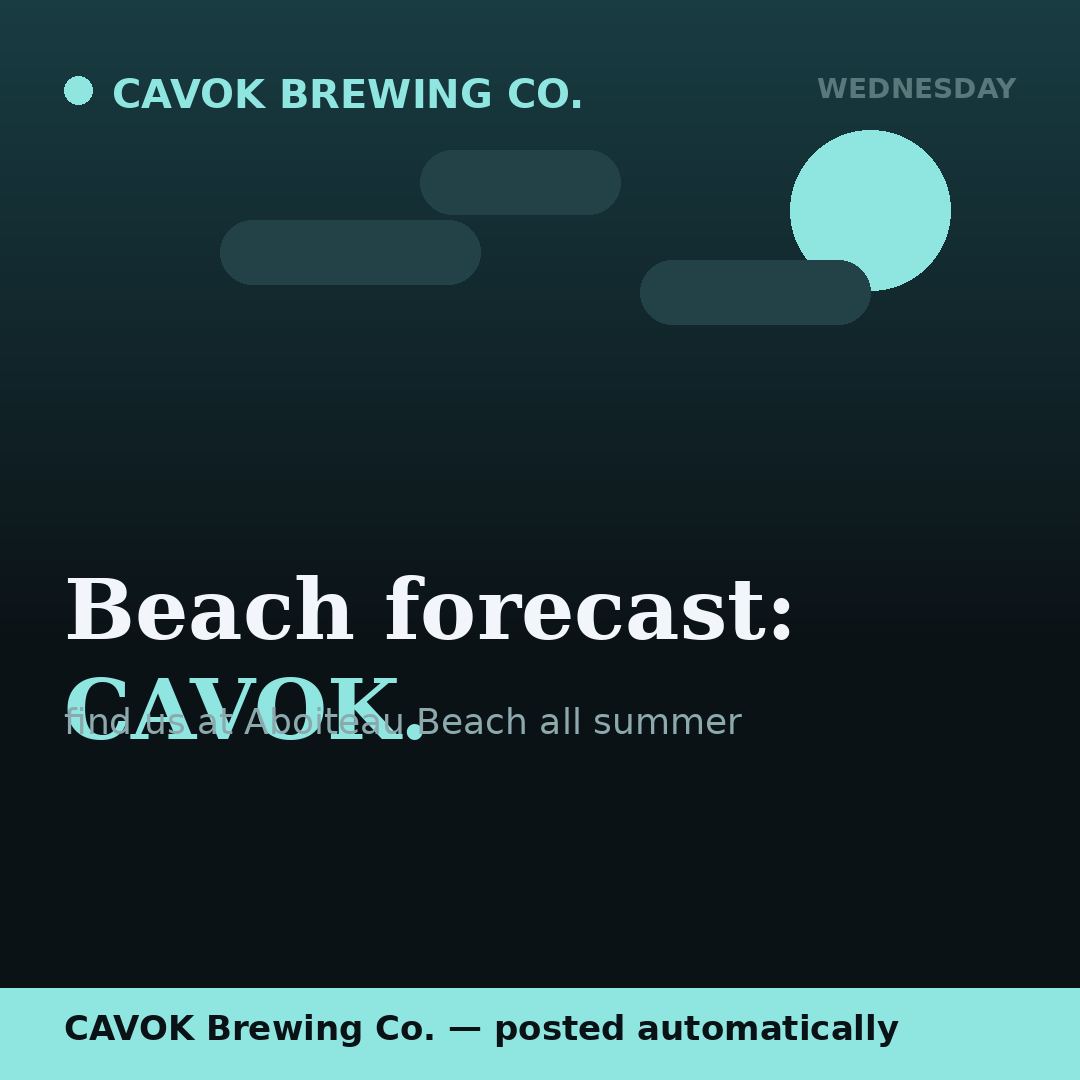
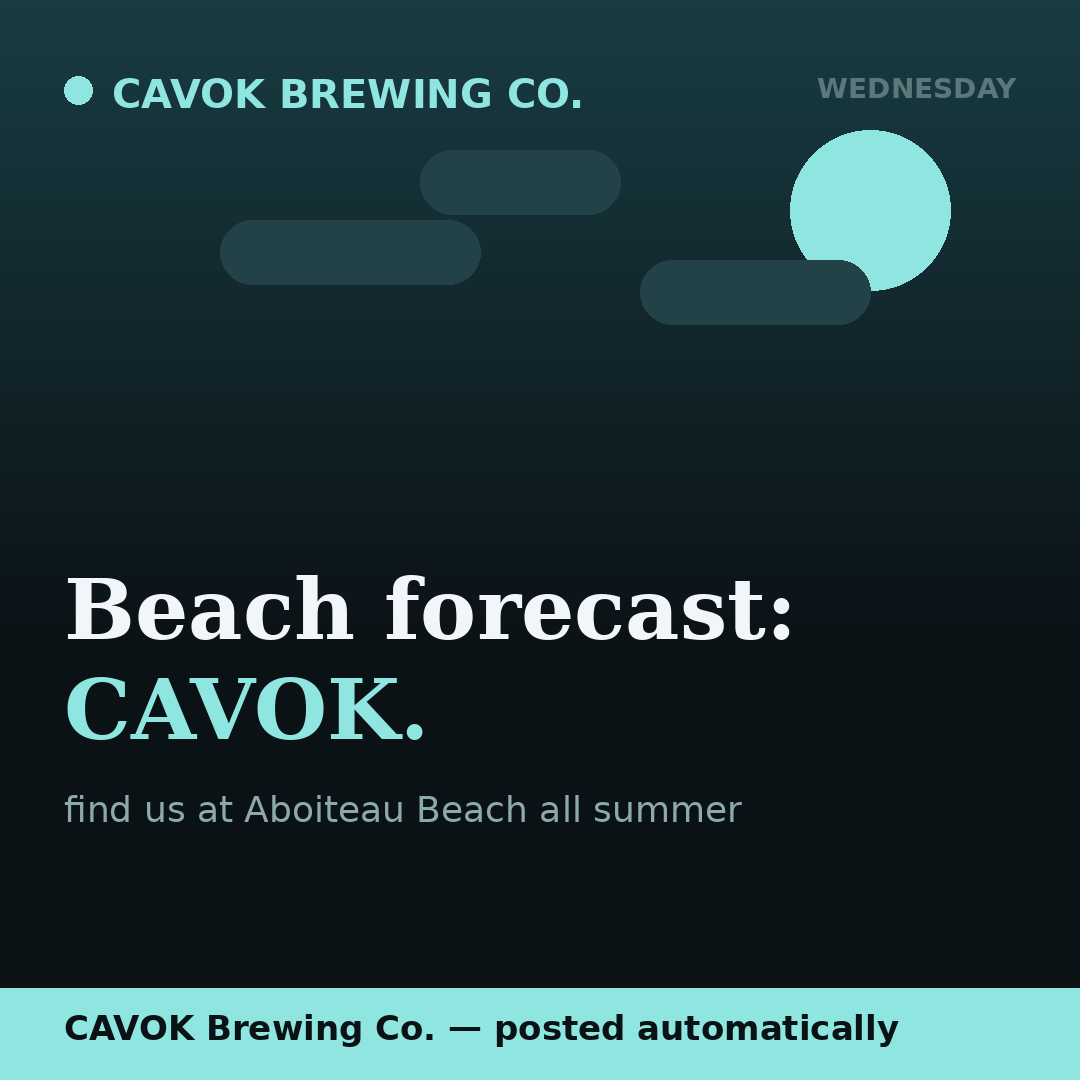
CAVOK day-3: anchor sub-line below headline, no overlap
Claude-Session: https://claude.ai/code/session_016WBRFe1MJn1UQSZgzashZd

Changed region(s): [[0.1833, 0.6417, 0.6722, 0.7028], [0.0611, 0.7333, 0.6722, 0.7639], [0.0611, 0.6417, 0.1222, 0.7028]]

diff --git a/marketing/east-coast-social/engine/cavok_week.py b/marketing/east-coast-social/engine/cavok_week.py
@@ -112,8 +112,8 @@ def day3():
     for cx, cy, w in [(220, 220, 260), (420, 150, 200), (640, 260, 230)]:  # clouds
         d.rounded_rectangle((cx, cy, cx + w, cy + 64), radius=32, fill=(34, 66, 72))
     header(d, y=70)
-    message(d, "Beach forecast: CAVOK.", 560, size=84)
-    d.text((64, 700), "find us at Aboiteau Beach all summer", font=_font(36), fill=(140, 170, 174))
+    y_end = message(d, "Beach forecast: CAVOK.", 560, size=84)
+    d.text((64, y_end + 28), "find us at Aboiteau Beach all summer", font=_font(36), fill=(140, 170, 174))
     footer(d, "WEDNESDAY")
     img.save(OUT / "day-3.png")
 
